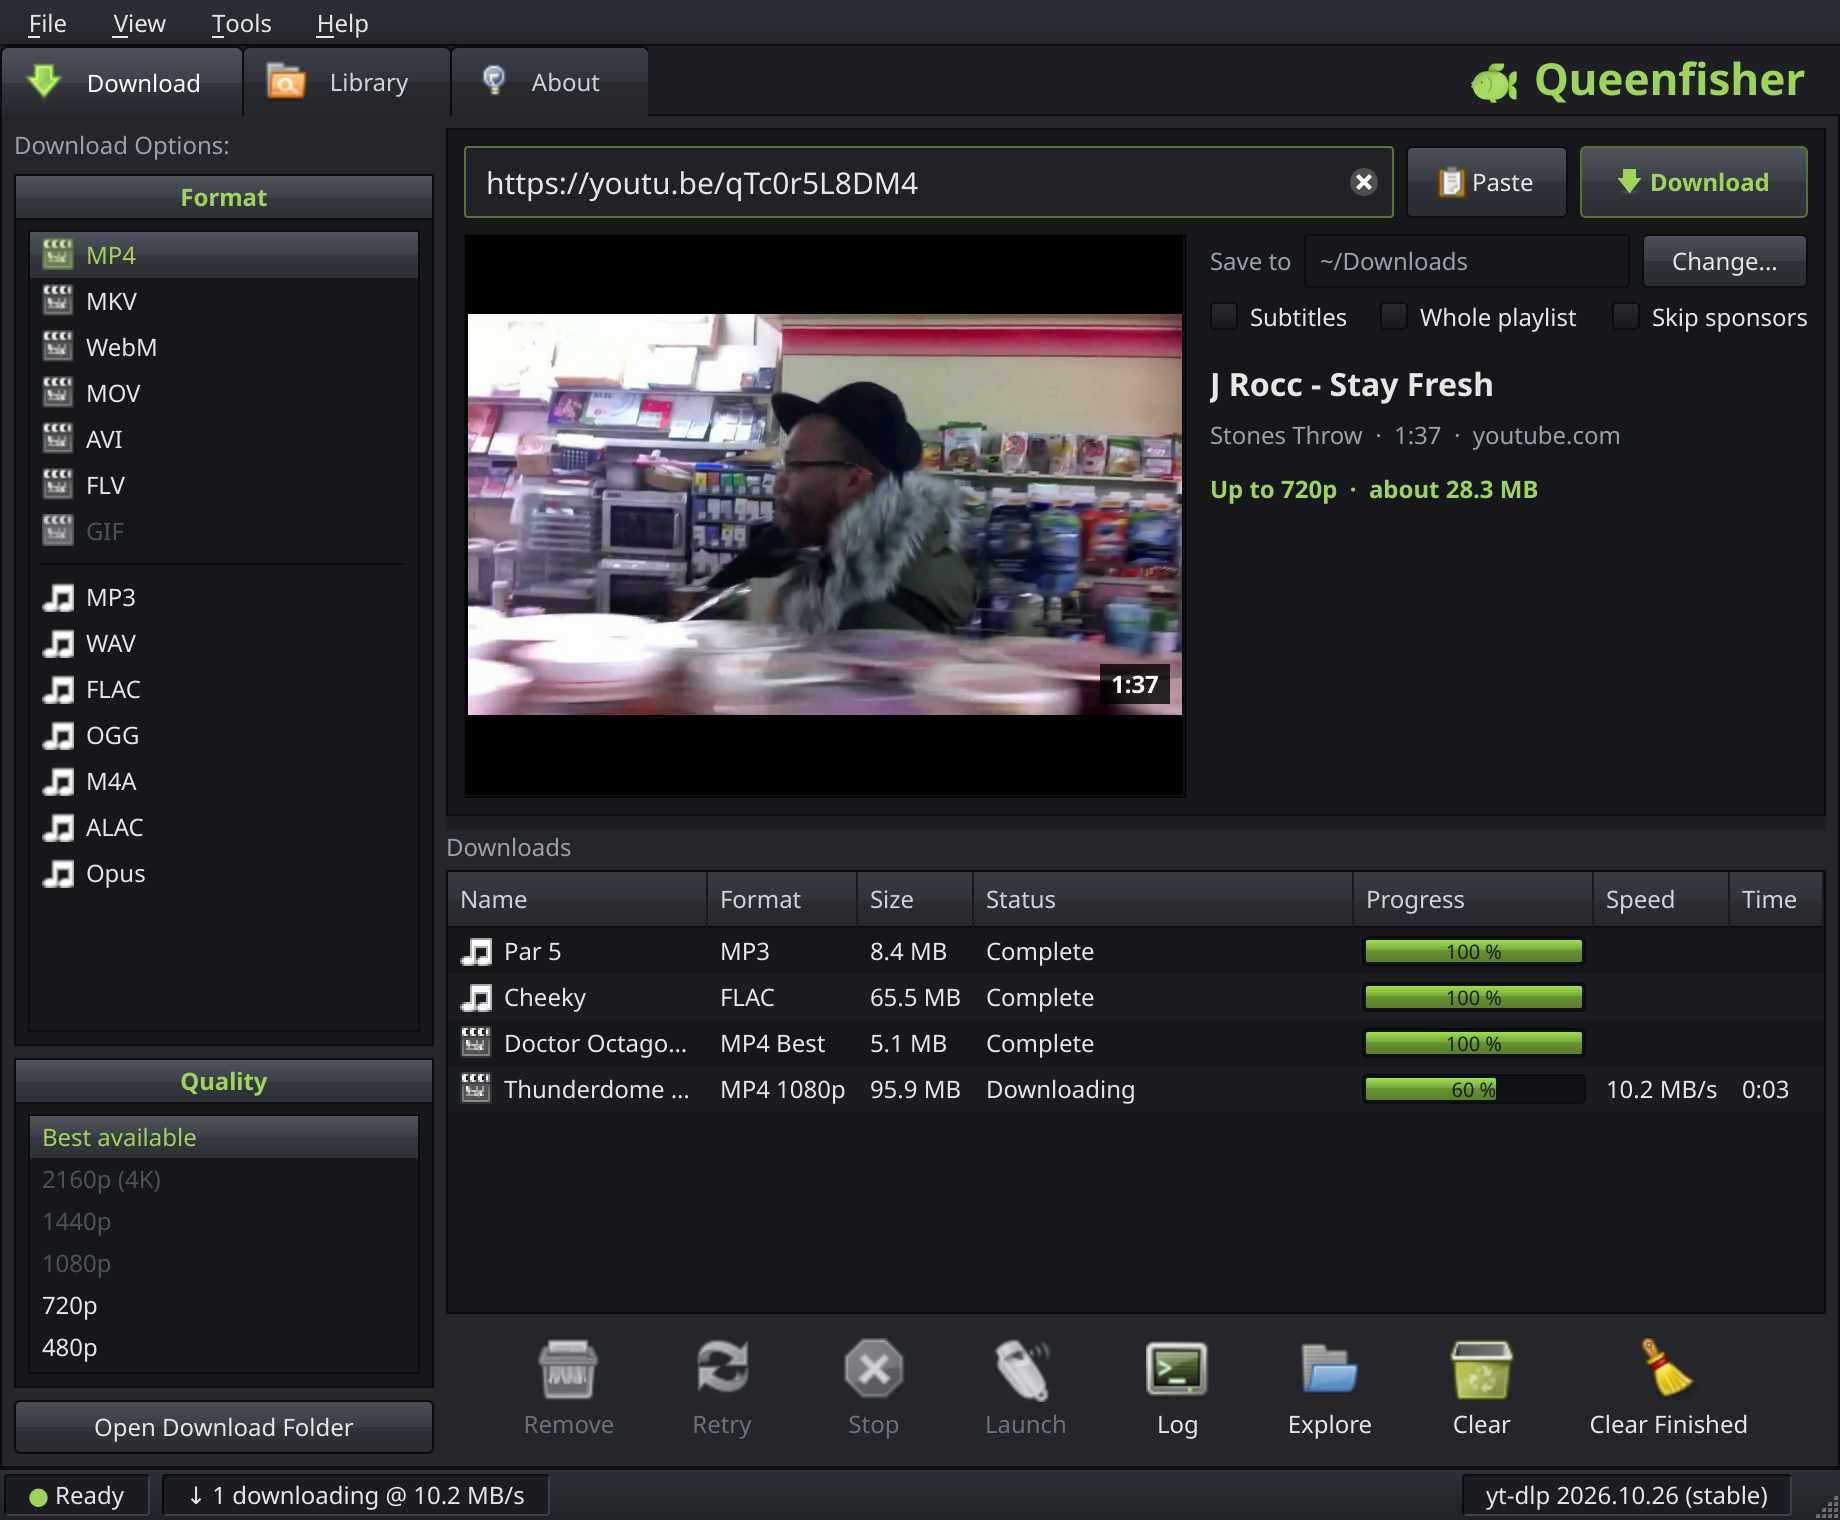
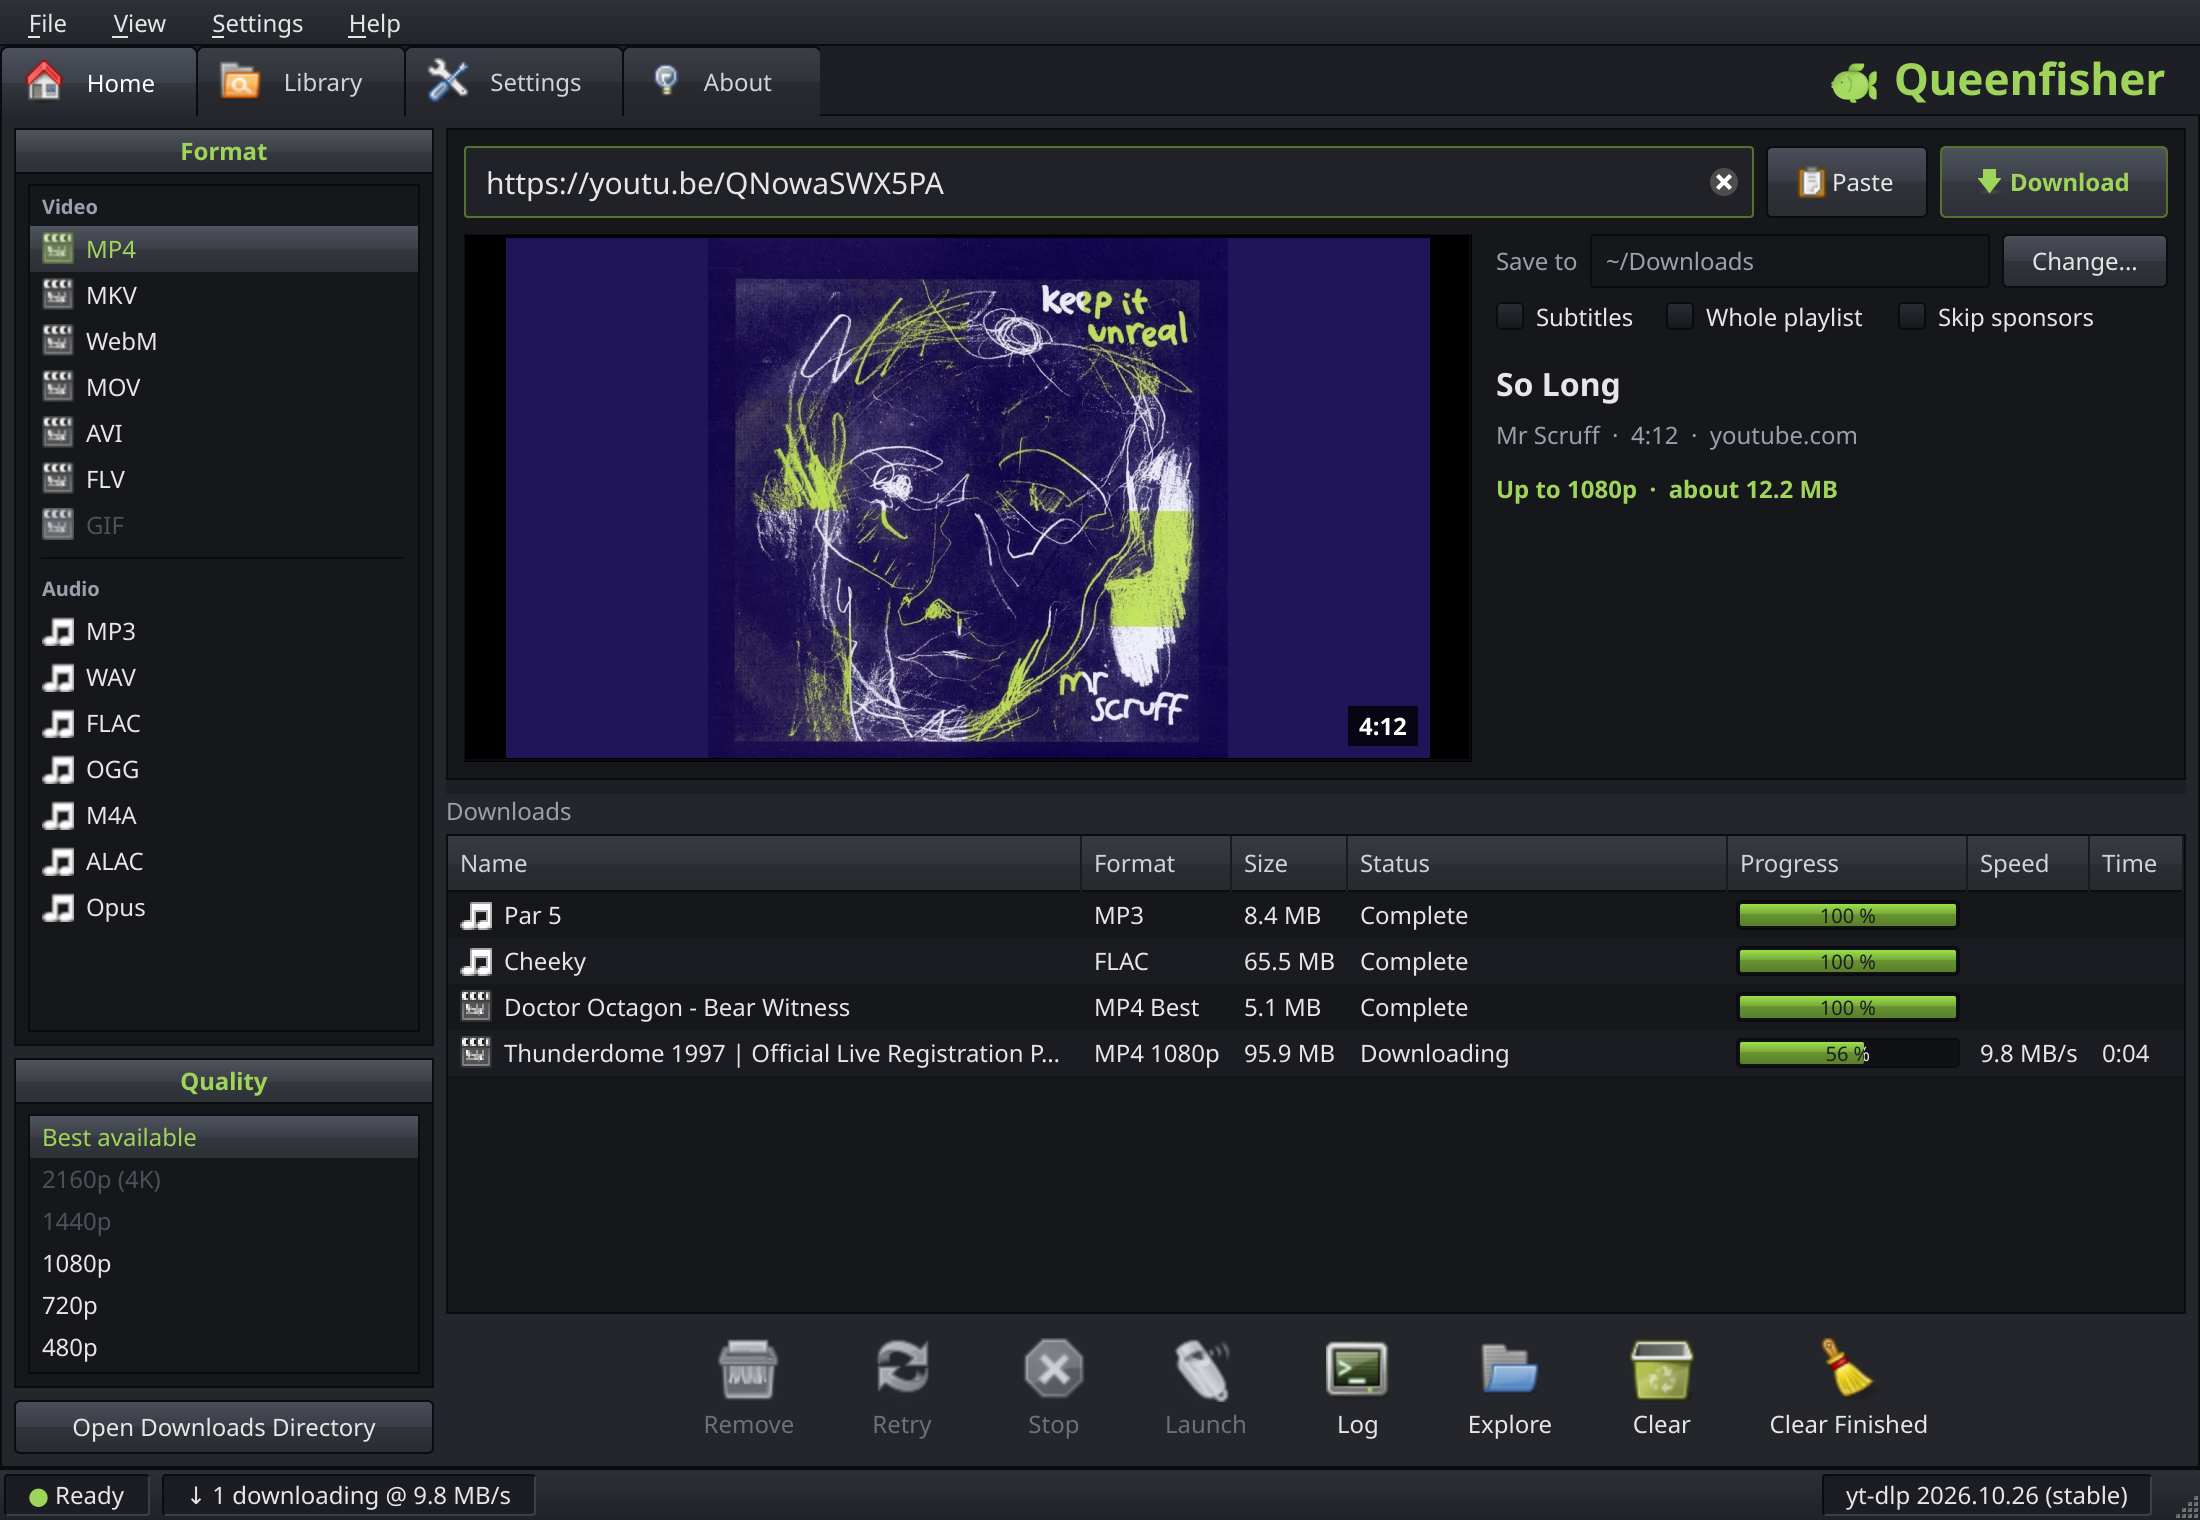
Queenfisher: new screenshot (So Long in the preview), no caption

diff --git a/projects/queenfisher.html b/projects/queenfisher.html
@@ -79,8 +79,7 @@
     <div class="shot-col">
       <article class="win shot-win">
         <a href="/images/queenfisher-download@2x.png"><img src="/images/queenfisher-download.png" srcset="/images/queenfisher-download@2x.png 2x"
-          width="920" height="760" alt="Queenfisher with three finished downloads, one downloading, and a preview of the next video"></a>
-        <p class="shot-cap">Paste a link and the preview tells you what you'll get.</p>
+          width="1100" height="760" alt="Queenfisher with three finished downloads, one downloading, and a preview of the next video"></a>
       </article>
     </div>
   </div>

diff --git a/style.css b/style.css
@@ -234,7 +234,6 @@ footer.site p + p { margin-top: 4px; }
 .shot-col { display: flex; flex-direction: column; gap: 32px; }
 .shot-win a { display: block; padding: 8px; }   /* no title bar: the picture speaks for itself */
 .shot-win img { display: block; width: 100%; height: auto; }
-.shot-cap { margin: 8px 0 0; padding: 14px 16px 16px; border-top: 2px solid var(--blue); text-align: center; text-wrap: balance; }
 @media (max-width: 760px) {
   .about-row { grid-template-columns: 1fr; gap: 32px; }
 }
